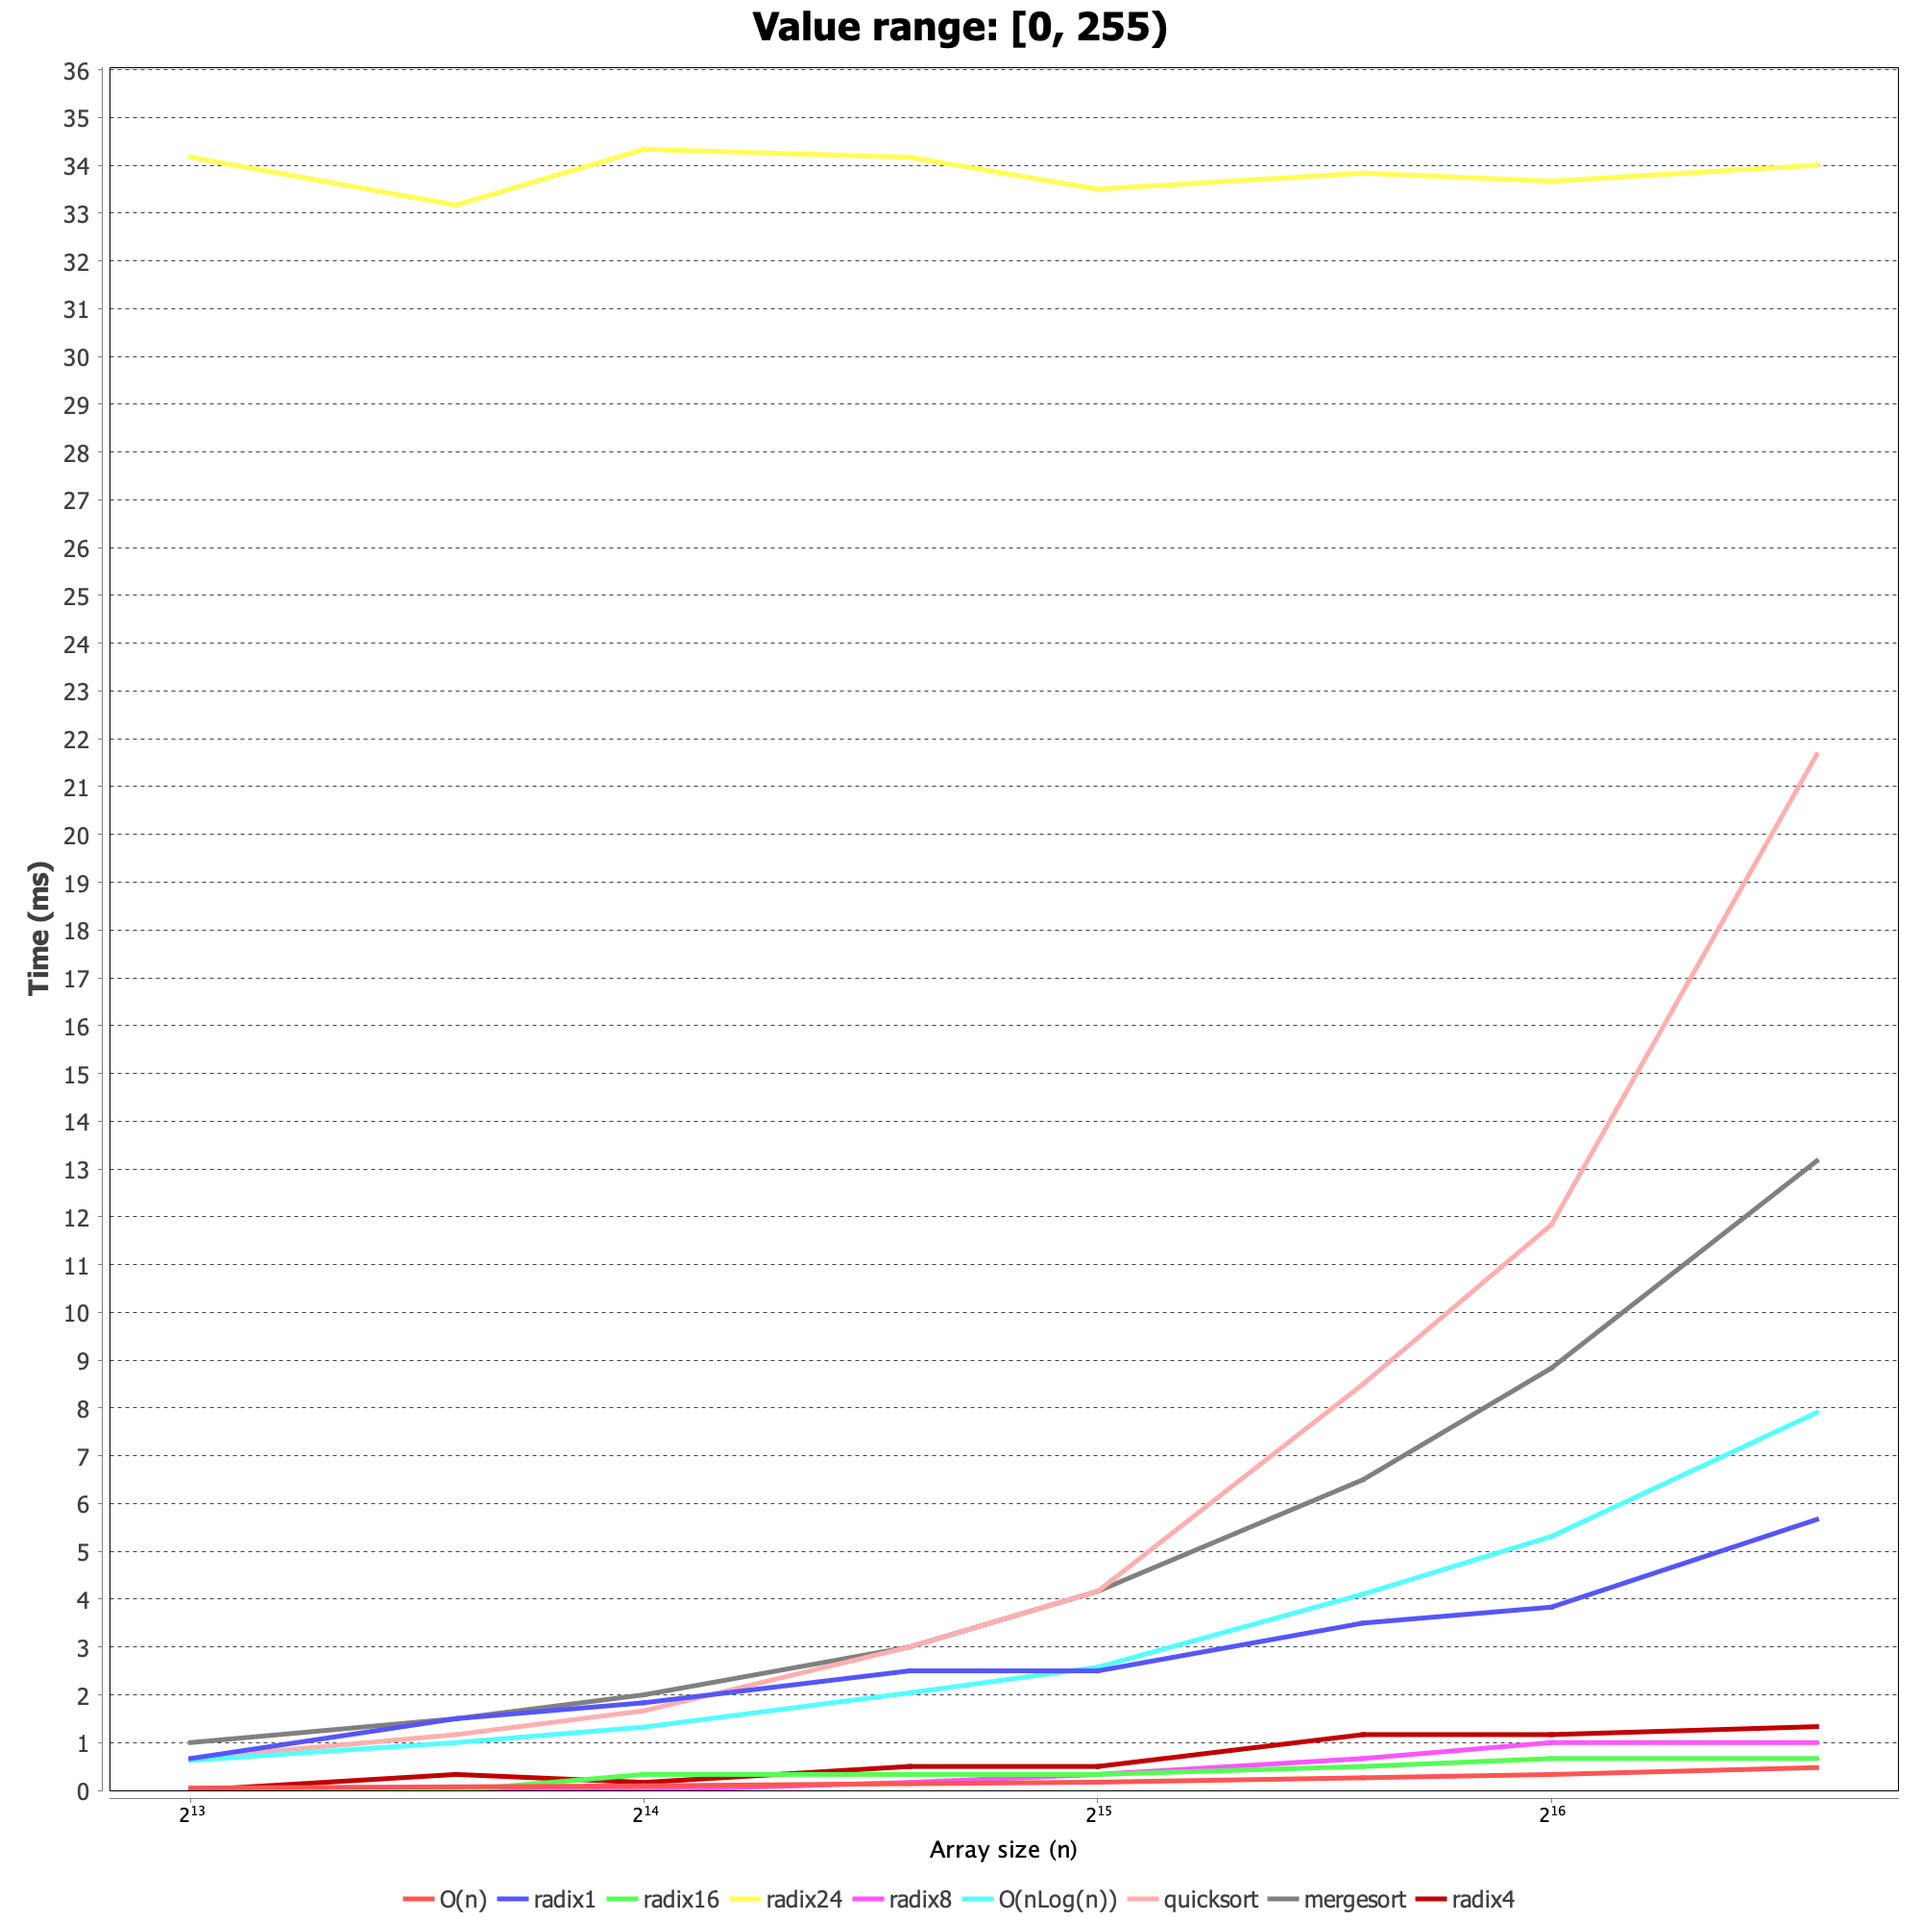
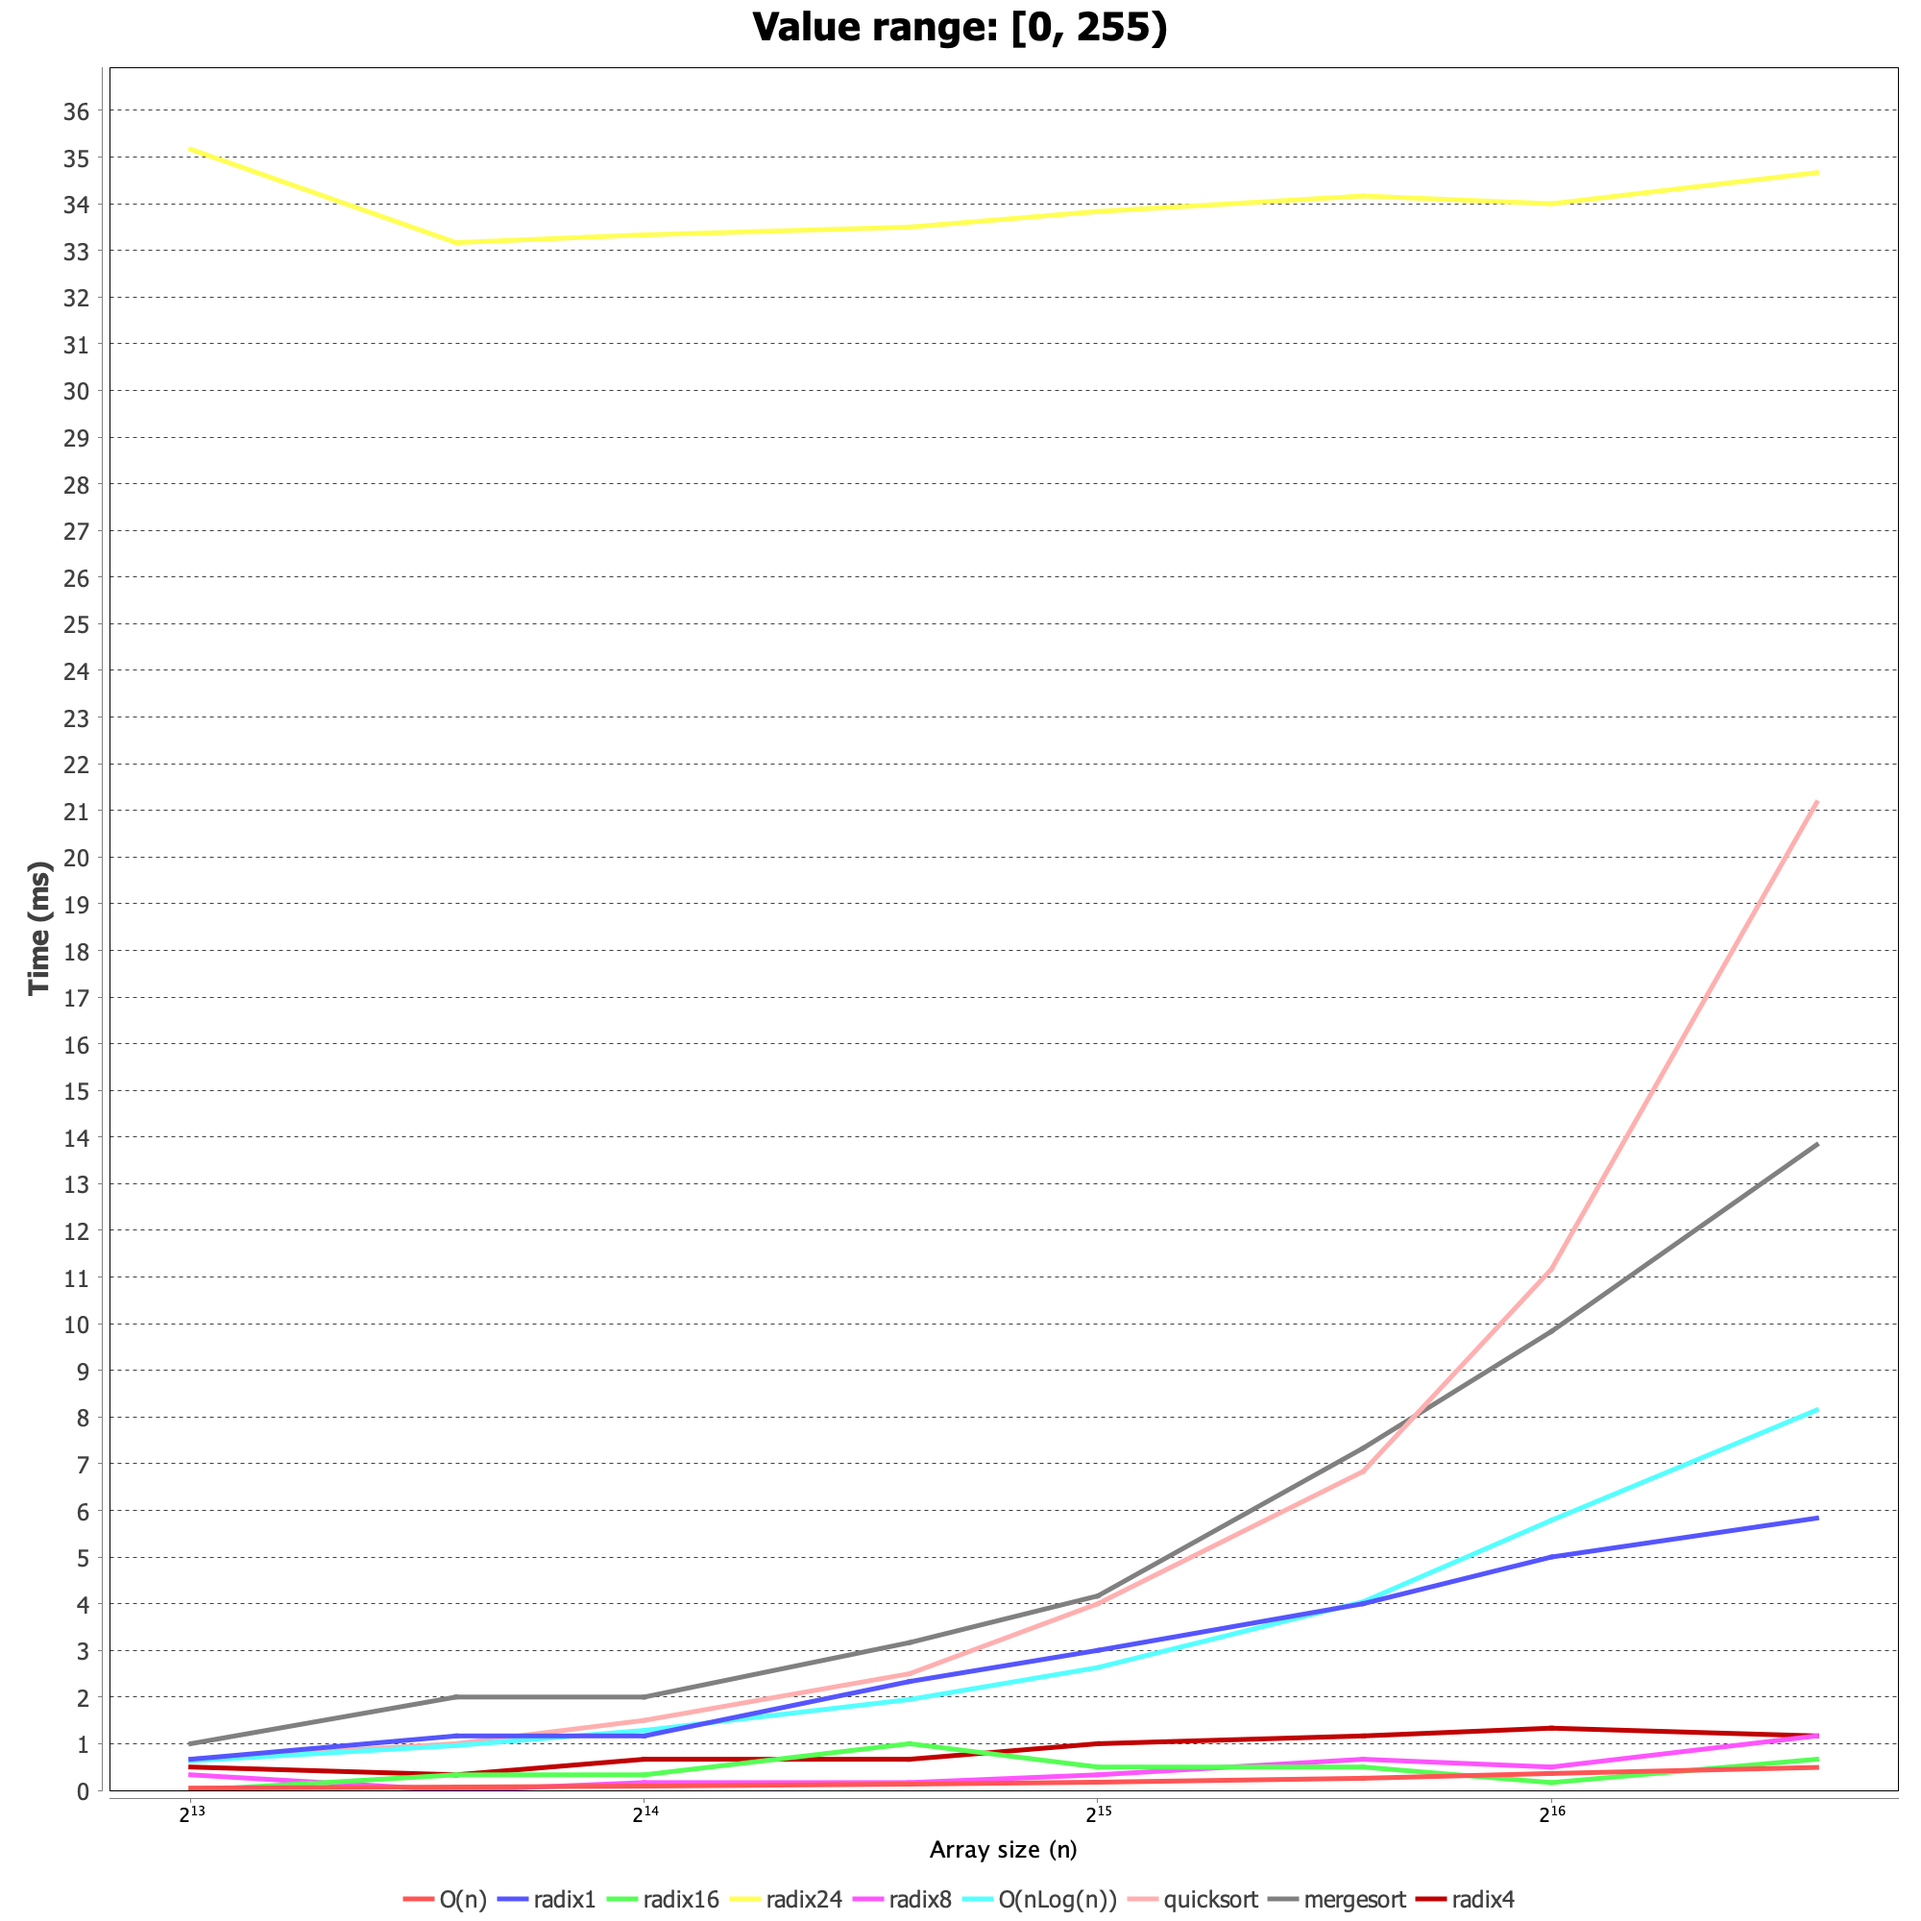
bubble sort

diff --git a/src/main/java/Sorter.java b/src/main/java/Sorter.java
@@ -1,3 +1,4 @@
+import java.util.Arrays;
 import java.util.Random;
 
 public class Sorter{
@@ -10,16 +11,17 @@ public class Sorter{
 
     // Recursively sort the array using the quickSort algorithm
     private static <T extends Comparable<T>> void quickSort(T[] array, int l, int r) {
-        if (l < r) {
+        if (l < r - 2) {
             int p = partition(array, l, r);
             if (l != p) quickSort(array, l, p - 1);
             if (r != p) quickSort(array, p + 1, r);
+        } else {
+            bubbleSort(array, l, r);
         }
     }
-
+    static Random random = new Random();
     private static <T extends Comparable<T>> int partition(T[] array, int l, int r) {
         // Generates random pivot index
-        Random random = new Random();
         int pivotIndex = random.nextInt(r - l + 1) + l;
         // Moves Chosen element to the r of the partition and sets it as the pivot
         swap(array, pivotIndex, r);
@@ -41,6 +43,27 @@ public class Sorter{
         T temp = array[j];
         array[j] = array[i];
         array[i] = temp;
+    }
+
+    static <T extends Comparable<T>> void bubbleSort(T[] arr, int l, int r)
+    {
+        boolean swapped;
+        for (int i = l; i <= r; i++) {
+            swapped = false;
+            for (int j = l; j <= r - 1 - (i - l); j++) {
+                if (arr[j].compareTo(arr[j + 1]) > 0) {
+
+                    // Swap arr[j] and arr[j+1]
+                    swap(arr, j, j+1);
+                    swapped = true;
+                }
+            }
+
+            // If no two elements were
+            // swapped by inner loop, then break
+            if (!swapped)
+                break;
+        }
     }
     //endregion
 
